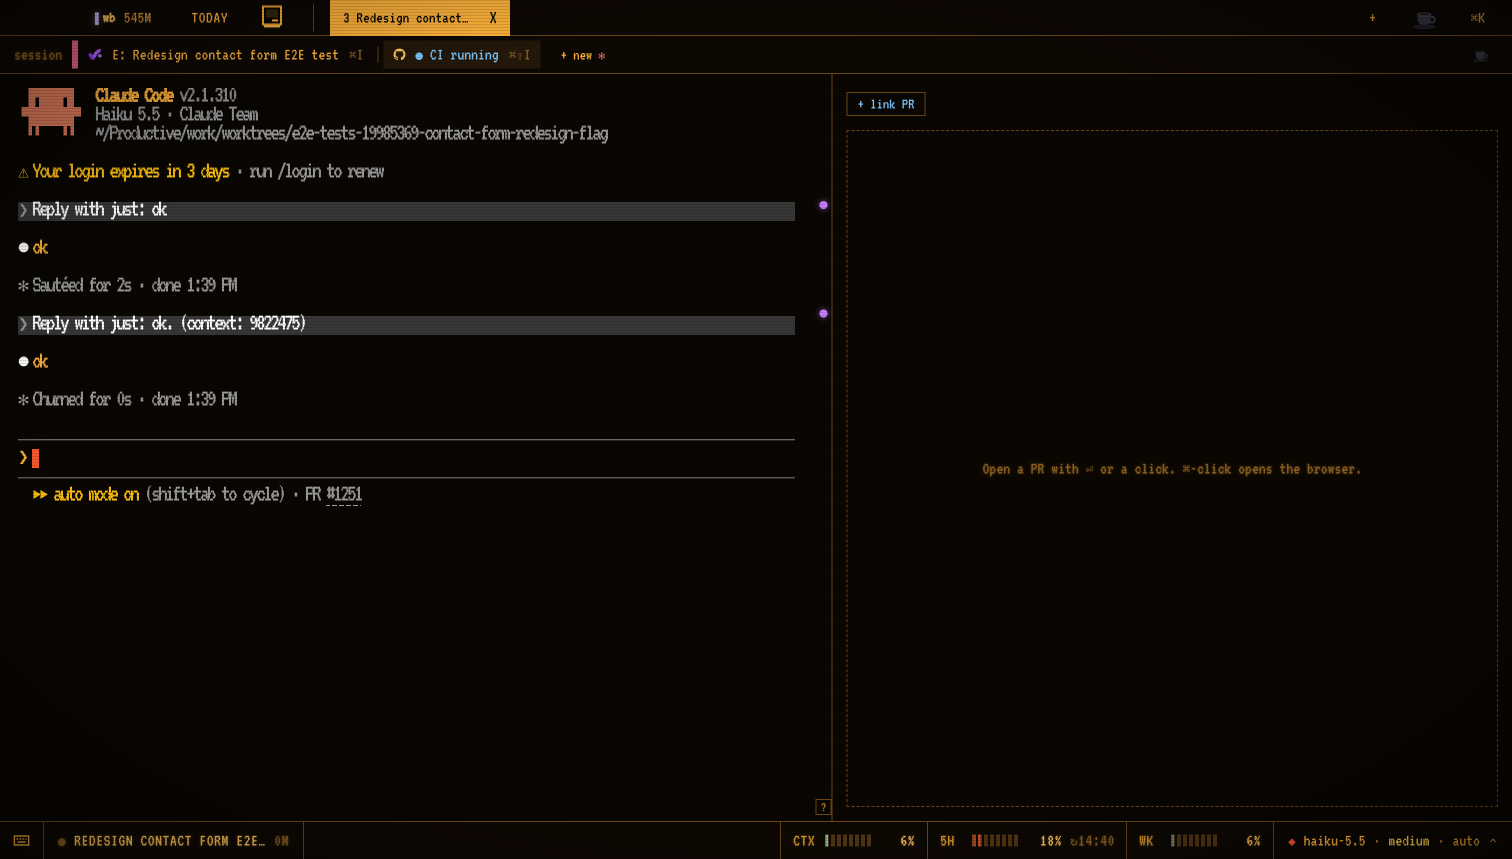
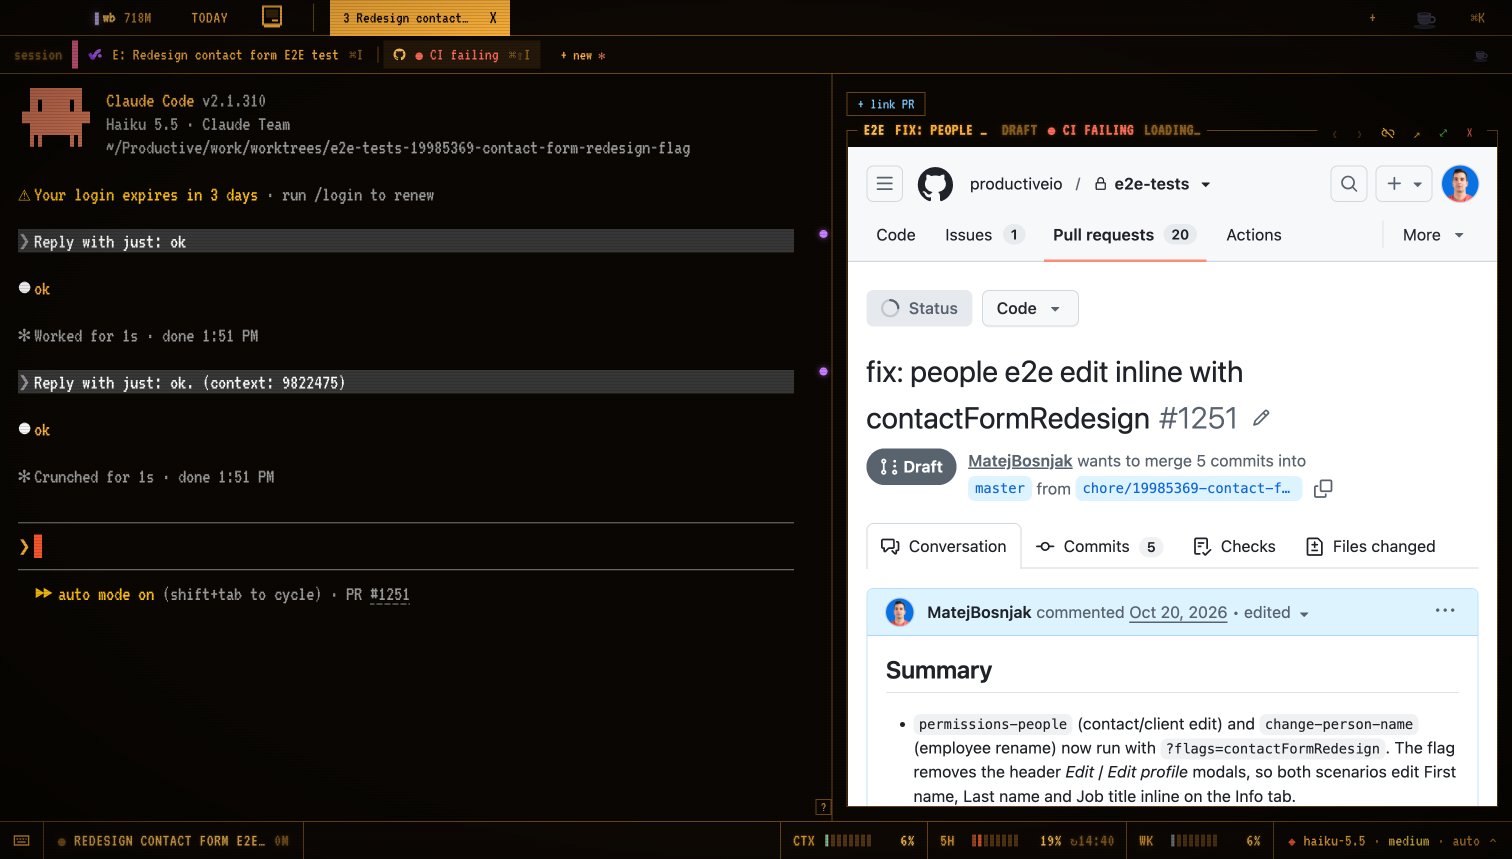
MU/TH/UR terminals readable: VT323 at 21px, no synthetic bold, and no font-size-adjust inside xterm (its measured cell no longer overlaps the glyphs)

diff --git a/src/renderer/src/themes.css b/src/renderer/src/themes.css
@@ -7,6 +7,7 @@
   --term-font: 'JetBrains Mono', ui-monospace, monospace;
   --term-size: 13;
   --term-line: 1.25;
+  --term-bold: bold;
 }
 
 /* The full-window CRT layer: off unless a theme turns it on. */
@@ -63,11 +64,14 @@
   --sans: var(--mono);
   --display: var(--mono);
   --term-font: 'VT323', ui-monospace, monospace;
-  --term-size: 18;
-  --term-line: 1.08;
+  --term-size: 21;
+  --term-line: 1.12;
+  --term-bold: normal;
 }
 /* VT323 is small for its size: scale every face to JetBrains Mono's x-height, so fixed sizes and widths keep working. */
 [data-theme='muthur'] * { font-size-adjust: 0.55; }
+/* Not inside terminals: xterm measures its cell in the DOM but draws on a canvas, which ignores the adjust, so glyphs would overlap. */
+[data-theme='muthur'] :is(.xterm, .xterm *) { font-size-adjust: none; }
 [data-theme='muthur'] body { text-shadow: 0 0 2px rgba(255, 170, 40, 0.35), 0 0 10px rgba(255, 140, 0, 0.08); }
 /* Scanlines and a soft vignette over everything; never in the way of the pointer. */
 [data-theme='muthur'] .crt-fx {

diff --git a/src/renderer/src/xterm-theme.ts b/src/renderer/src/xterm-theme.ts
@@ -29,11 +29,13 @@ export function xtermTheme(): ITheme {
   }
 }
 
-/** The terminal face for the current theme: --term-font, --term-size (px) and --term-line from the theme tokens. */
-export function termFont(): { fontFamily: string; fontSize: number; lineHeight: number } {
+/** The terminal face for the current theme: --term-font, --term-size (px), --term-line and --term-bold from the theme tokens. */
+export function termFont(): { fontFamily: string; fontSize: number; lineHeight: number; fontWeightBold: 'bold' | 'normal' } {
   return {
     fontFamily: css('term-font') || "'JetBrains Mono', ui-monospace, monospace",
     fontSize: Number(css('term-size')) || 13,
     lineHeight: Number(css('term-line')) || 1.25,
+    // A bitmap-style face like VT323 smears when bolded synthetically.
+    fontWeightBold: css('term-bold') === 'normal' ? 'normal' : 'bold',
   }
 }

diff --git a/docs/SPEC.md b/docs/SPEC.md
@@ -77,7 +77,7 @@ Image: every screenshot below; the other themes in `theme-muthur.png`, `theme-br
 - **Violet means "needs you".** The accent marks waiting sessions (tab, +N count, status-bar dot, row marks, question bookmarks), the Needs-you number, primary actions and the ▌wb mark. Selection and "current" don't use it, except the current session tab: selected rows, the current place, picked chips and the open sidebar's button are raised with a light outline or bar, and keep their own colours. Amber isn't an attention colour either; it's Productive's Working status, effort, and meter warnings.
 - **Still at rest.** Nothing loops; glow is kept for a waiting tab and the Needs-you number. Plain ground behind lists and the terminal.
 - **Themes.** Dusk (muted synthwave on graphite, purple accent) is the default; three cassette-futurism themes can be picked from the app menu (Workbench › Theme) or ⌘K (`theme`). The choice is the setting `ui:theme` (mirrored in localStorage so the first paint has it) and applies at once as `data-theme` on `<html>`; open terminals switch colours, face and size in place. Colours are CSS tokens; each theme replaces them and restyles the shell in `themes.css`; terminals read `--term-font` / `--term-size` / `--term-line`.
-  - **MU/TH/UR:** amber phosphor on near-black, VT323 (scaled to JetBrains Mono's x-height with `font-size-adjust`, so sizes and column widths hold), light scanlines and a soft vignette over the whole window, chrome in capitals. Task rows and status chips print a three-letter status code in the status colour instead of the name and drop the dot; Working is reverse video. Counters print two digits; My PRs blue, Reviews violet; Needs you hot red (the accent). The current place and tab are reverse video. Meters are block cells.
+  - **MU/TH/UR:** amber phosphor on near-black, VT323 (scaled to JetBrains Mono's x-height with `font-size-adjust`, so sizes and column widths hold), light scanlines and a soft vignette over the whole window, chrome in capitals. Task rows and status chips print a three-letter status code in the status colour instead of the name and drop the dot; Working is reverse video. Counters print two digits; My PRs blue, Reviews violet; Needs you hot red (the accent). The current place and tab are reverse video. Meters are block cells. Terminals use VT323 at 21px with no synthetic bold, and are left out of the `font-size-adjust` (xterm measures its cell in the DOM but draws on a canvas, so an adjusted measure overlaps the glyphs).
   - **Brown workstation:** smoked-brown chrome, Space Mono; places, top-bar buttons and tabs are keycaps, the current one the orange key, pressed; `▌wb` carries the four sunset stripes; each counter has its stripe colour down the left and its number in it; box titles small amber capitals; faint scanlines; the meters sit on a grey-green LCD strip with dark segments.
   - **Ops console:** slate panels on a perforated ground, Share Tech Mono, a cream → orange → rust → brown stripe under the top bar; box and counter titles on embossed Dymo tape (Needs you on red tape); counters are screwed plates with seven-segment LED digits (amber, Needs you red); status dots are glowing lamps and status names small capitals; status chips carry a toggle switch; meters are green LED ladders.
 - **Status colours.** Productive's 17 status colours each map to a bright stand-in (`statusVivid`) for marks, labels, the strip and chips; Productive's own pastel pairs (`statusColors`) stay for tag-style badges such as the status button.
